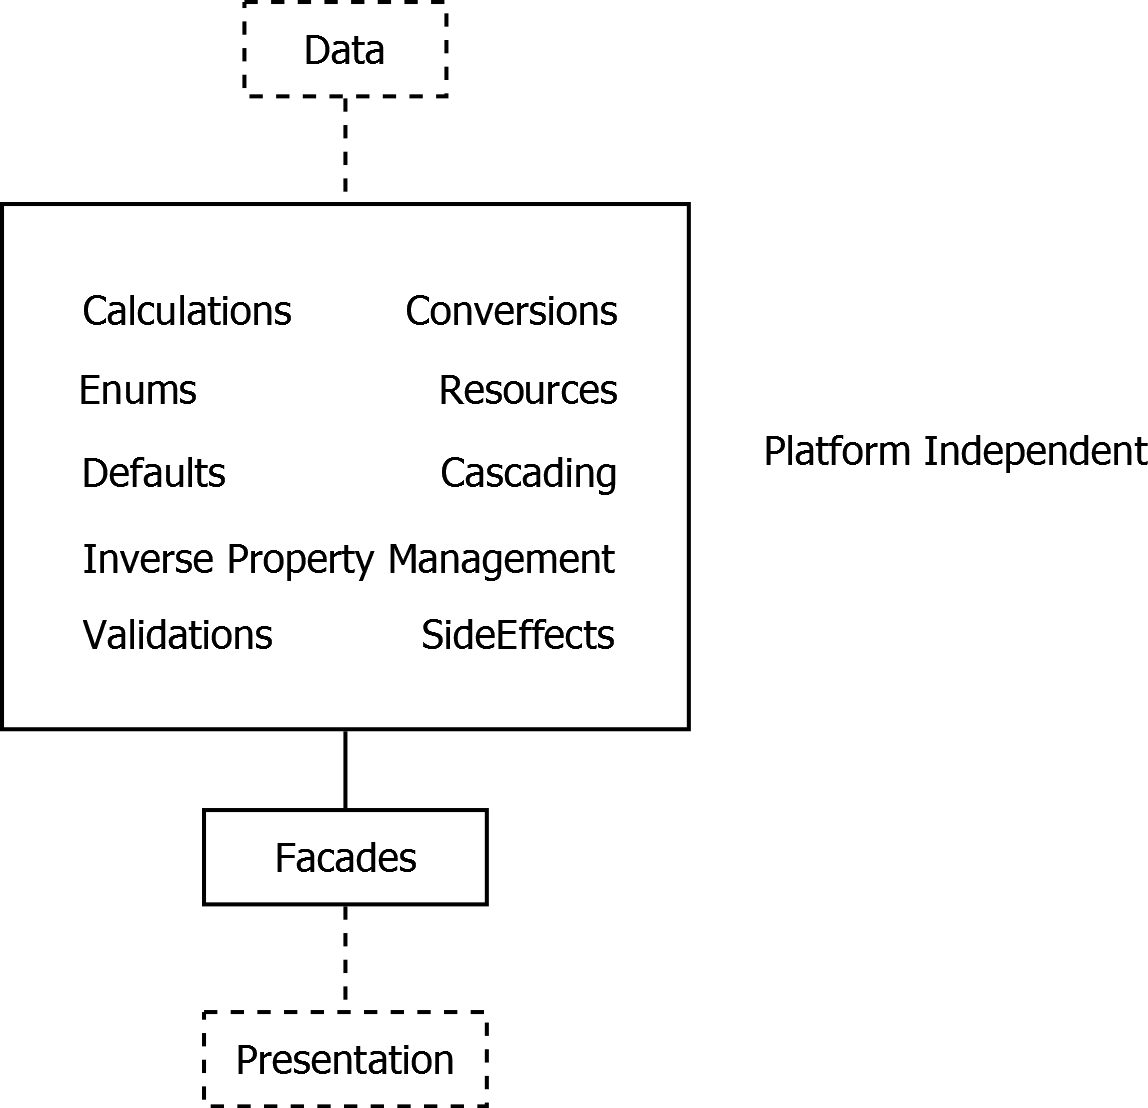
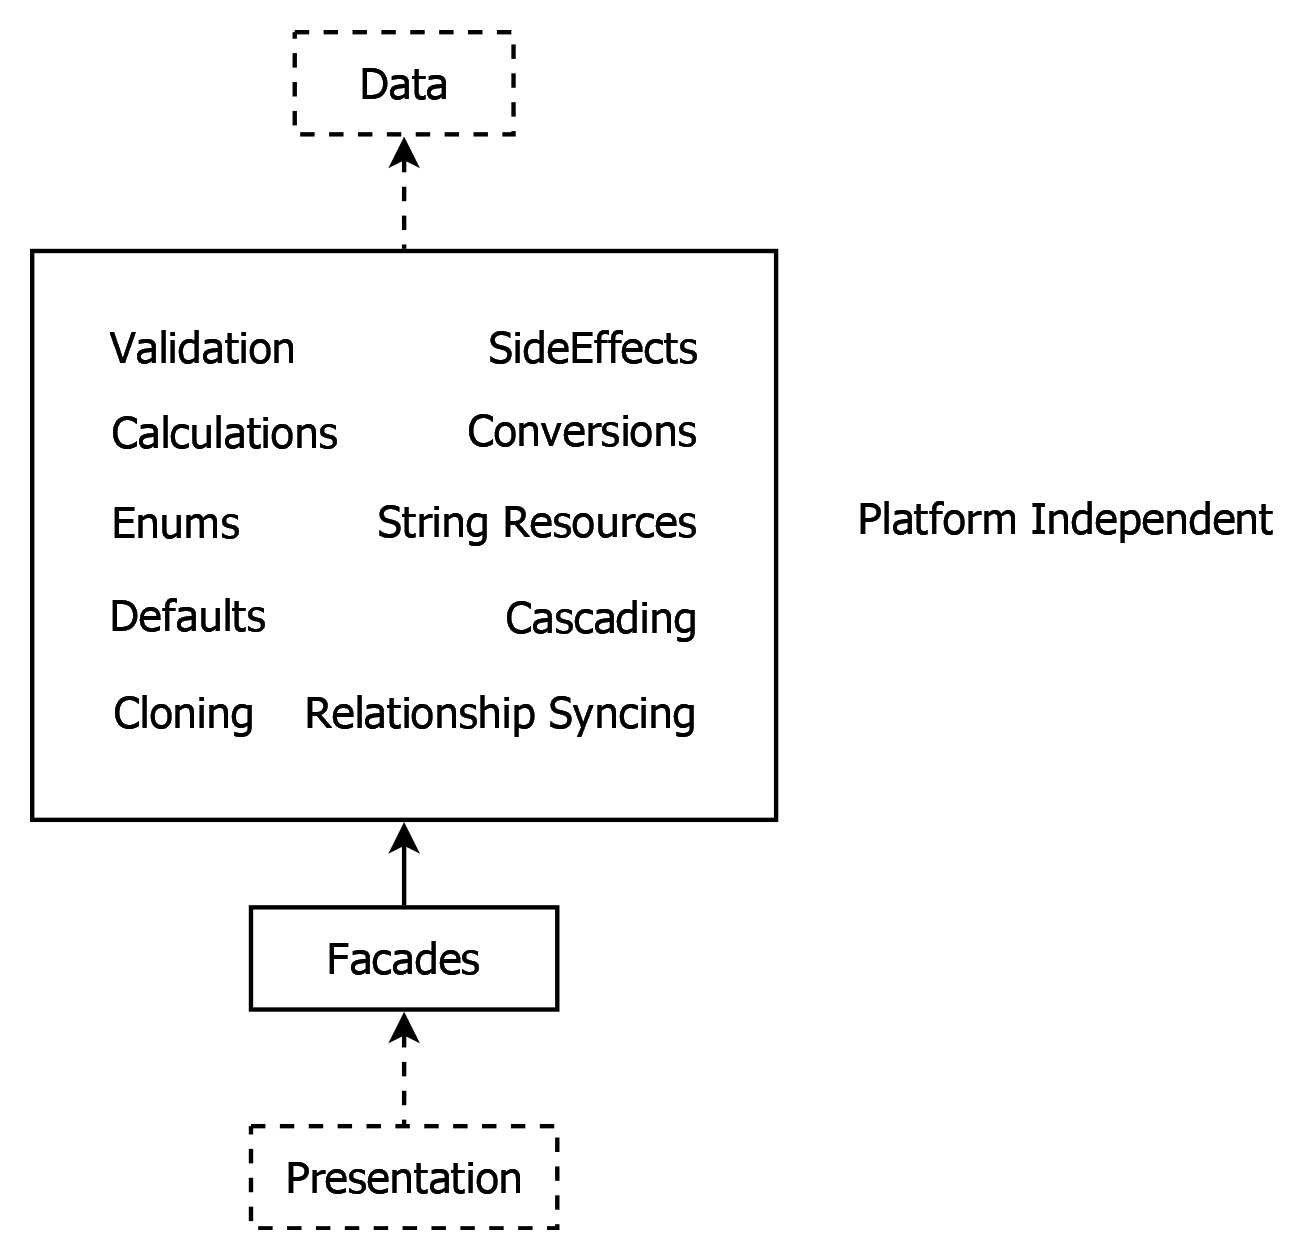
✍ Layers: Business Layer: Clarifying sentences and links.

diff --git a/layers.md b/layers.md
@@ -176,22 +176,31 @@ That means that we can use the same kind of application logic for multiple prese
 Business Layer
 --------------
 
-`< TODO: More clarifying sentences. >`
-`< TODO: More links. >`  
+`< ... TODO: More clarifying sentences. >`  
+`< ... TODO: More links. >`  
+`< TODO: Clarify each term in the diagarm. >`  
+`< TODO: Sub-sections. >`  
 `< TODO: Relationship Synching = Inverse Property Management = LinkTo / Unlink >`  
 `< TODO: Cascading = UnlinkRelatedEntitiesExtensions / DeleteRelatedEntitiesExtensions >`
 
 <img src="images/business-layer.png" width="357" />
 
-What is business logic? Basically anything that is not presentation, data access or infrastructure, might be considered business logic.
+What is business logic? Basically anything that is not [presentation](#presentation-layer), [data access](#data-layer) or [infrastructure](#perpendicular-layers), might be considered business logic.
 
-The business layer resides in between the data access and the [presentation layer](#presentation-layer). The [presentation layer](#presentation-layer) calls the business layer for the most part throught the Facades. The Facades are combinators that combine multiple aspects of the business logic, by calling validators, side effects, cascadings and other things. They are 'CRUD-oriented facades'.
+The business layer resides in between the [data access](#data-layer) and the [presentation layer](#presentation-layer).
 
-The business layer executes validations that verify, that the data corresponds to all the rules. Also, the business layer executes side effects when altering data, for instance storing the date time modified or setting default values when you create an [entity](patterns.md#entity), or for instance automatically generating a name. The business layer is also responsible for calculations and many other things as represented in the diagram above.
+The [presentation layer](#presentation-layer) calls the business layer to execute rules and such. It may happen for the most part throught the [facades](patterns.md#facade). They combine multiple aspects of the [business logic](#business-layer), by calling [validators](patterns.md#validators), [side effects](patterns.md#side-effects), [cascading](patterns.md#cascading) and other things.
 
-The business layer uses entities, but sometimes will call [`Repositories`](patterns.md#repository) out of the data access layer, even though your first choice should be to just use the entities. The [presentation layer](#presentation-layer) uses the business layer for anything special that needs to be done. Often when something special is programmed in the [presentation layer](#presentation-layer), it actually belongs in the business layer instead.
+The [facades](patterns.md#facade) might be *CRUD-oriented*. That means the methods may orient around the basic data operations **C**reate, **R**ead, **U**pdate and **D**elete. This CRUD concept might not be prone to change much, and might keep the interfaces relative stable. Only for exceptional cases, additional non-CRUD operations might be added to the facades. It also gives a few clear entry points into the [business layer](#business-layer)
 
-The business layer is platform independent and the code can be deployed anywhere. This does sometimes require specific API choices or using our own framework API's. These choices are inherently part of this architecture. But because most things are built on entities and [`Repository interfaces`](patterns.md#repository-interfaces), the business logic is very independent of everything else, which means that the magic of our software can be deployed anywhere.
+The [business layer](#business-layer) executes [validations](patterns.md#validators) that verify, that the data corresponds to all the rules. Also, the [business layer](#business-layer) executes [side effects](patterns.md#side-effects) when altering data, for instance updating the date time modified or setting [default values](aspects.md#defaults) when you create an [entity](patterns.md#entity), or for instance automatically *generating a name*. The [business layer](#business-layer) would also be responsible for [calculations](aspects.md#calculation) and the many other things presented in the diagram above.
+
+The [business layer](#business-layer) uses [entities](patterns.md#entity), but sometimes will call [`repositories`](patterns.md#repository) out of the [data access layer](#data-layer), even though your first choice might be to just use the [entity](patterns.md#entities) classes.
+
+The [presentation layer](#presentation-layer) uses the [business layer](#business-layer) for anything special that needs to be done. Often when something special is programmed in the [presentation layer](#presentation-layer), it might actually belong in the [business layer](#business-layer) instead.
+
+The [business layer](#business-layer) is supposed to be platform independent in this architecture so the code might be deployed anywhere. This might sometimes require specific `API` choices or using our own framework `API's`. These choices may be inherently part of this architecture. But because most things are built on entities and [`repository interfaces`](patterns.md#repository-interfaces), the [business logic](#business-layer) is quite independent of everything else, which means that the magic of our software would be deployable anywhere, which is nice.
+
 
 Perpendicular Layers
 --------------------

diff --git a/patterns.md b/patterns.md
@@ -18,7 +18,7 @@
     - [Validators](#validators)
     - [Side Effects](#side-effects)
     - [LinkTo](#linkto)
-    - [Cascading Extensions](#cascading-extensions)
+    - [Cascading](#cascading)
     - [Facade](#facade)
         - [Get by ID not in the Facade](#get-by-id-not-in-the-facade)
     - [Visitor](#visitor)
@@ -251,9 +251,9 @@ public static void NewLinkTo(this Child child, Parent parent)
 
 Be aware that executing `NewLinkTo` onto *existing* objects will result in a corrupted object graph.
 
-### Cascading Extensions
+### Cascading
 
-`< TODO: Describe how to organize your DeleteRelatedEntitiesExtensions and UnlinkRelatedEntitiesExtensions. >`
+`< TODO: Describe how the DeleteRelatedEntitiesExtensions and UnlinkRelatedEntitiesExtensions are organized. >`
 
 ### Facade
 
